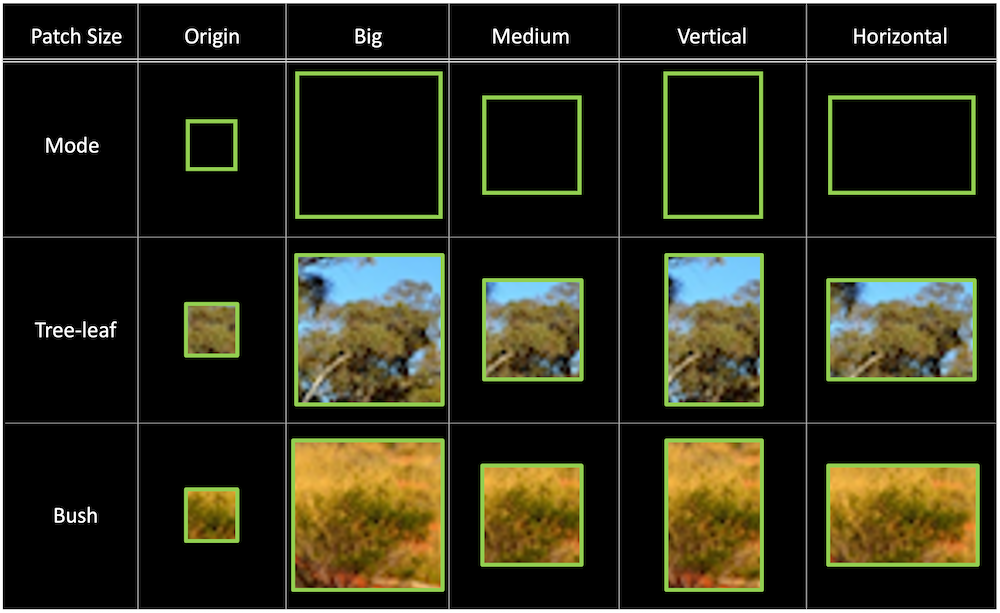
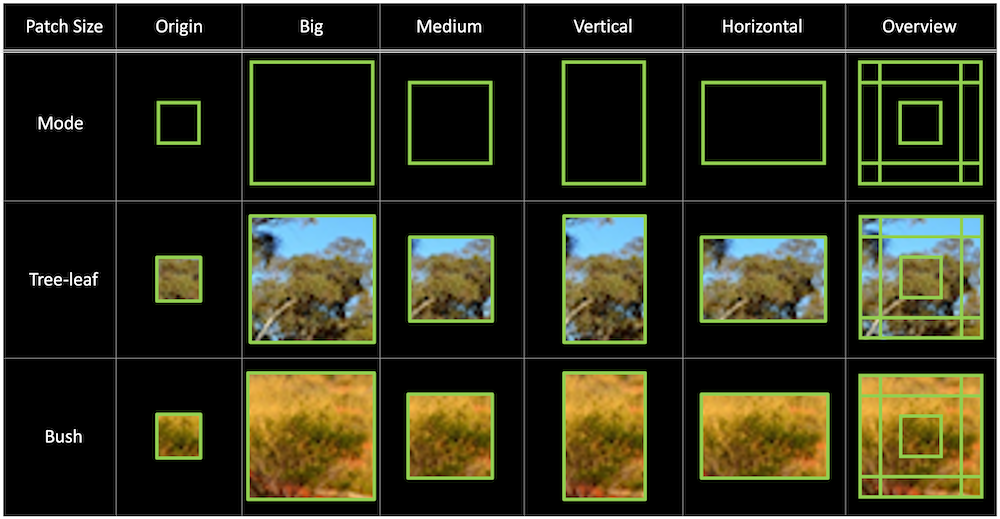
readme update

diff --git a/README.md b/README.md
@@ -27,18 +27,62 @@ Table 1. look alike patches to be classified.
 Table 2. allowing origin patches to be in context by inclduing nearby piexels.
 
 ## IDEA
-<p aling='justfy'> So I decided to grand 'second chance' for those classified patches with low confidence under a certain threshold (70%). In this 'second chance', classification will be rerun with additional four patches which include neighbor area in different shape: big, medium, vertical, horizontal ↓ </p>
+<p aling='justfy'> So I decided to grant 'second chance' for those classified patches with low confidence under a certain threshold (70%). In this 'second chance', classification will be rerun with additional four patches which include neighbor area in different shape: big, medium, vertical, horizontal ↓ </p>
 
 ![picture](screenshots/modes.png) </br>
 Figure 2. Different modes for each ambiguous patch.
 
-When the trained model process all of those modes, the classification result will be varied. This variation will be reflected to the final classification array by adding weights for each mode. </br>
+<p aling='justfy'> When the trained model process all of those modes, the classification result will be varied. This variation will be reflected to the final classification array by adding weights for each mode. </p>
+</br>
 (To be continue...)
 
+## IMPLEMENTATION of WEIGHTING
+
+In the current implementation, weighting is calculated as following : </br>
+
+$$ R(origin) * 0.4 + R(mid) * 0.3 + R(big) * 0.1 + R(vertical) * 0.1 + R(horizon) * 0.1 $$
+
+<p aling='justfy'> Let R(mode) represent array of inference result where mode is either one of origin, big, mid, vertical, and horizon which represent each of the window sizes used for classification. </p>
+
+## TIME COMPLEXITY
+<p aling='justfy'> This methodology is not that efficient when the average confidence of a model (AvConf(model)) is low or confidence threshold (T(conf)) is set to be low because. Both factors will increase the number of this post-processing run. This can be represented as following equation : </p>
+
+$$ Average number of vote = AvConf(model) * T(conf) * N(windows) * N(Classificaiton_run) $$
+$$ N(Classification_run) = (Image_size / patch_size) - padding_area $$ 
+$$ padding_area =  2 * patch_size * (w + y + 2) $$
+
+## RESULT
+![picture](screenshots/result_trace.png) </br>
+Figure 3. Trace of voting </br>
+<p aling='justfy'> Figure 3 shows the trace of voting which shows where voting algorithm is applied. Shown in Figure 3, voting was happened in some ambiguous area not all area. </p>
+
+![picture](screenshots/result_trace.png) </br>
+Table 3. Change in classification result before and after voting. </br>
+<p aling='justfy'> Table 3 shows the change in classificaiton result before and after voting. Before voting, the highest scored class was ??. After the weighted-voting happend, however, the highest scored class was changed into ??. This is because the neighbor area gave more weight to the class especially in window-?? and window-??. </p>
+
+## COMPARISION with No-Voting System
+
+|Ground Truth |No-Voting       |Voting         |
+|-------------|----------------|---------------|
+|![picture](screenshots/result-gt.png)|![picture](screenshots/result-no-voting.png)|![picture](screenshots/result-voting.png)|
+|![picture](screenshots/result2-gt.png)|![picture](screenshots/result2-no-voting.png)|![picture](screenshots/result2-voting.png)|
+
+Table 4. Comparision of Inference result of Voting and non-Voting. </br>
+
+<p aling='justfy'> As you can see from Table 4, there are some differences in inference result especially in ambiguous area. The used model has ??? of accuracy and ?? of confidence threshold is applied for voting trigger to amphasize the difference between the modes.</p>
+
+
+
 ## FUTURE WORK
-[1] As this is post-processing methodology, this can also be applied to object-detection to improve detections with low-confidence. </br>
-[2] Current code doesn't include padding. But, to maximise the performance of this methodology , padding must be implemented upon the class type. </br>
-[3] This might have some impact on training dataset. Because of this methodology, it would be even more accurate if the model is trained without ambiguous patch (like in table1) </br>
+* As this is a post-processing methodology, this can also be applied to an object-detection challenge to improve detections with low-confidence. </br>
+* Current code doesn't include padding. But, to maximise the performance of this methodology , padding must be implemented upon the class type. </br>
+* This might have some impact on training dataset. Because of this methodology, it would be even more accurate if the model is trained without ambiguous patch (like in table1) </br>
+
+## BASE WORK
+this work is based on the following project : [patch based classification](https://github.com/boguss1225/classification-patch-base)
+
+## DATA_AVAILABILITY
+Used dataset is fully available upon request: jcjc7890@gmail.com
 
 ## REFERENCE
 [1] https://www.networkbirdlife.org/home/northern-nsw-surveyors-excited-to-find-a-surprise-bird-during-annual-surveys-at-two-bush-heritage-properties-in-2021 </br>
